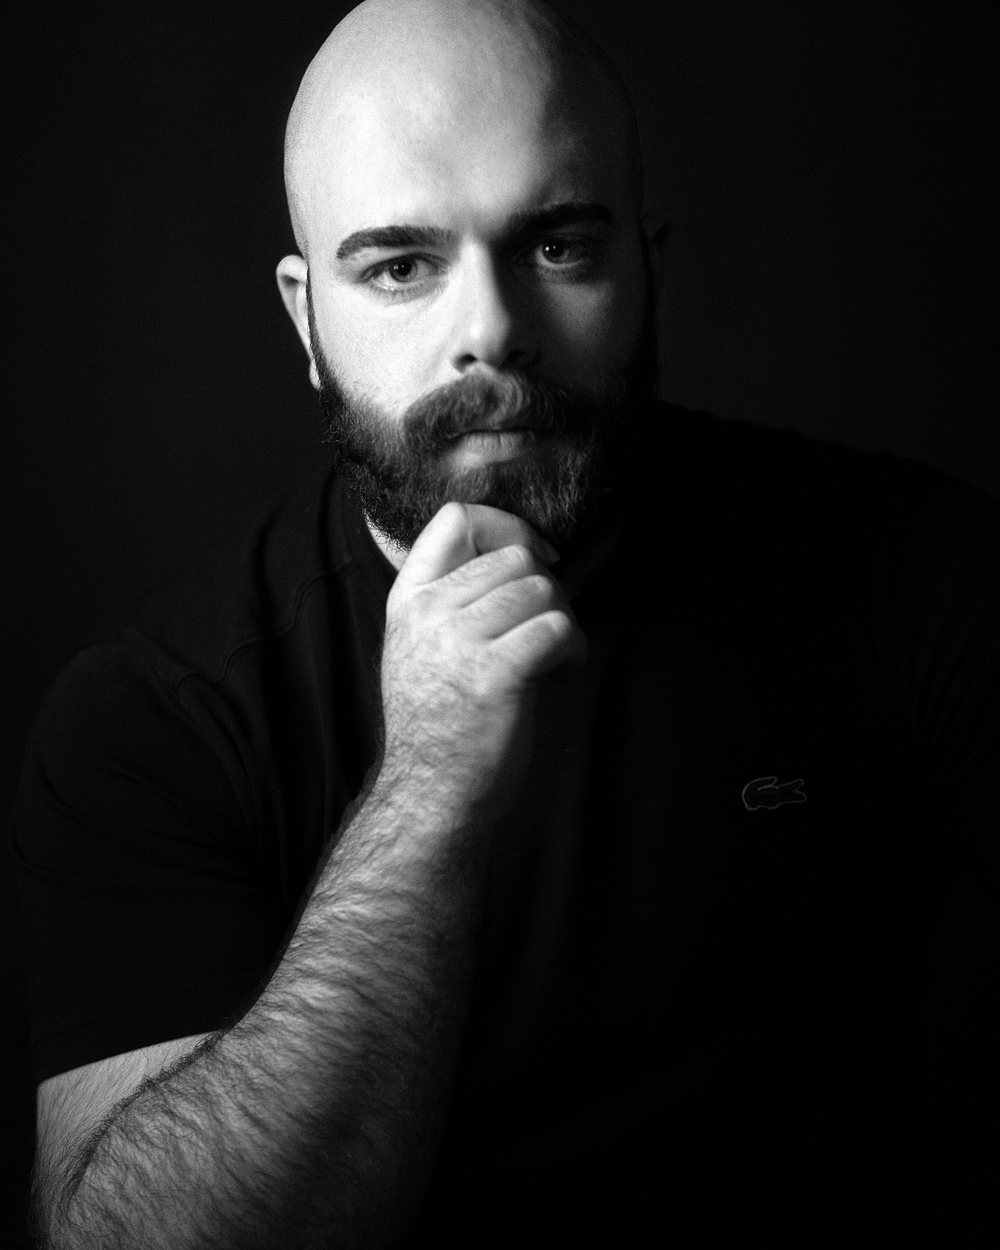
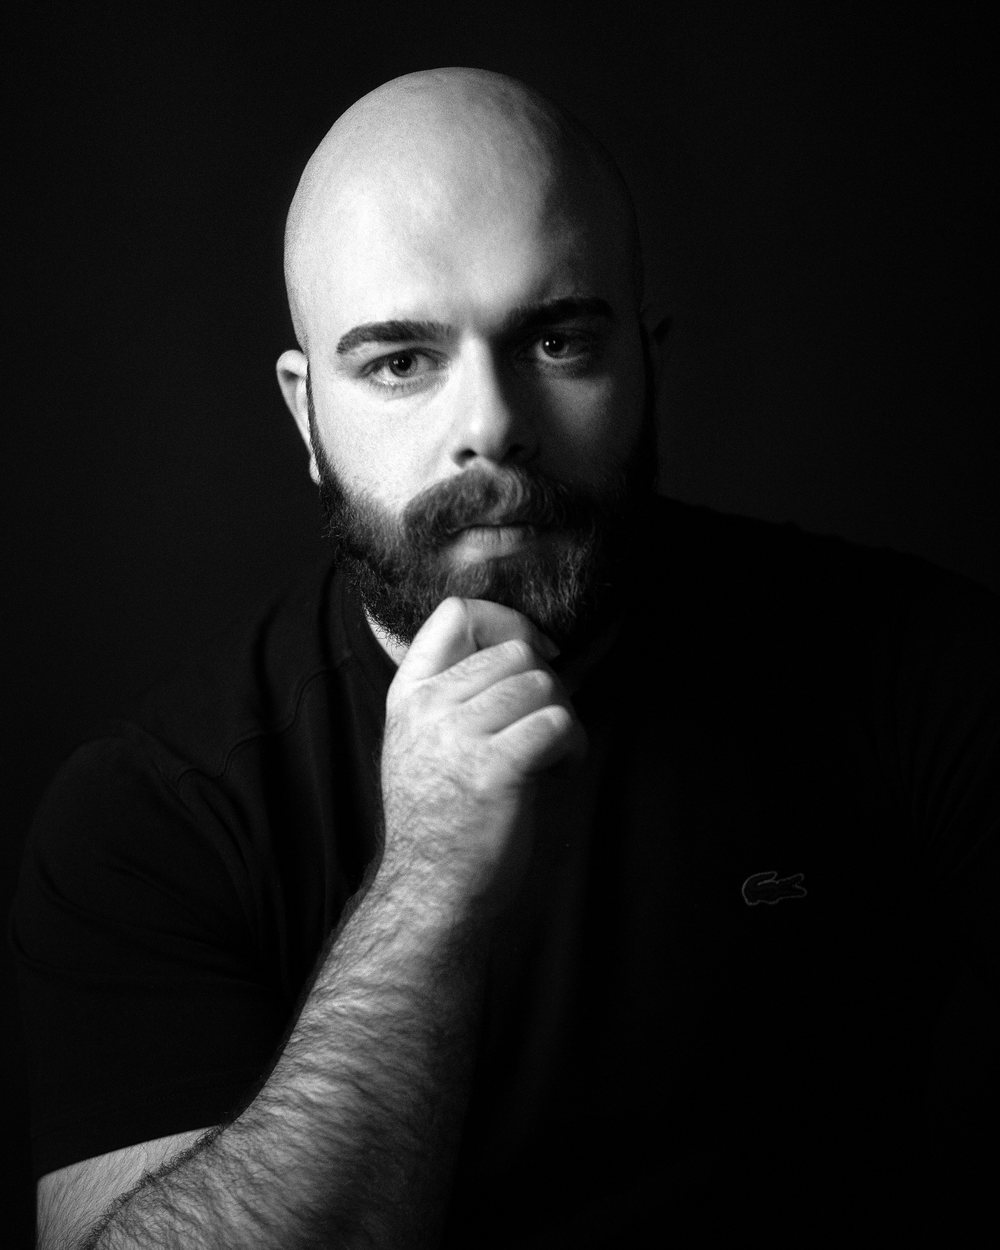
Retrato do Gê sem o corte na testa
O recorte 4:5 da equipe sobe a foto em 38% da sobra, o que cortava o topo
da cabeça do Gê. O retrato dele agora usa o corte colado no topo.

Changed region(s): [[0.031, 0.0, 0.62, 1.0]]

diff --git a/gerador/imagens.py b/gerador/imagens.py
@@ -189,7 +189,7 @@ def placeholder(largura=1000):
     return base.convert("RGB")
 
 
-def retrato(nome, prefixo_resgate, largura=1000):
+def retrato(nome, prefixo_resgate, largura=1000, viés_topo=0.38):
     """Gera o retrato P&B da equipe, preferindo a foto nova."""
     novo = foto_nova(nome)
     if novo:
@@ -202,13 +202,14 @@ def retrato(nome, prefixo_resgate, largura=1000):
         im = Image.open(acha(prefixo_resgate))
         origem = "resgate do site antigo"
     im = ImageOps.exif_transpose(im)
-    im = corta_retrato(im)
+    im = corta_retrato(im, viés_topo=viés_topo)
     tam = salva_jpg(im, os.path.join(DEST, f"equipe/{nome}.jpg"), largura, 84, pb=True)
     print(f"  equipe/{nome}.jpg: {tam[0]}x{tam[1]}  ({origem})")
 
 
 print("Retratos da equipe:")
-retrato("germano", 96)
+# a foto do Gê tem pouco espaço acima da cabeça: o corte fica colado no topo, senão corta a testa
+retrato("germano", 96, viés_topo=0)
 retrato("rafael-batista", None)   # foto ainda não entregue
 retrato("rafael", 54)
 retrato("deisy", 212)

diff --git a/CLAUDE.md b/CLAUDE.md
@@ -104,7 +104,8 @@ O `.claude/launch.json` não funciona: o macOS bloqueia o acesso do servidor de 
 
 - **Fotos da equipe**: `Fotos Equipe/<slug>.(jpg|png|heic)` → corte 4:5 enquadrando pelo topo e
   conversão para P&B. Fotos que já chegam em P&B não recebem autocontraste. Sem foto, entra um
-  placeholder com o símbolo da marca.
+  placeholder com o símbolo da marca. O retrato do Gê usa o corte colado no topo (`viés_topo=0`
+  em `imagens.py`); com o padrão, a testa sai cortada.
 - **Logos de clientes**: `Logos Clientes/<nome>.(png|jpg|svg)` → branco puro. Depois, incluir o
   nome em `CLIENTES_LOGOS` e `CLIENTES_ALT` (`dados.py`).
 - Imagens do resgate são chamadas pelo prefixo numérico do arquivo em `_interno/resgate/imagens/`
